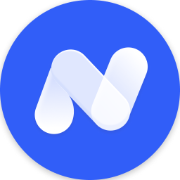
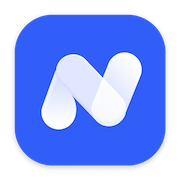
优化手机端展示效果,优化图标

diff --git a/app/components/chat.tsx b/app/components/chat.tsx
@@ -893,27 +893,27 @@ function _Chat() {
       .concat(
         isLoading
           ? [
-              {
-                ...createMessage({
-                  role: "assistant",
-                  content: "……",
-                }),
-                preview: true,
-              },
-            ]
+            {
+              ...createMessage({
+                role: "assistant",
+                content: "……",
+              }),
+              preview: true,
+            },
+          ]
           : [],
       )
       .concat(
         userInput.length > 0 && config.sendPreviewBubble
           ? [
-              {
-                ...createMessage({
-                  role: "user",
-                  content: userInput,
-                }),
-                preview: true,
-              },
-            ]
+            {
+              ...createMessage({
+                role: "user",
+                content: userInput,
+              }),
+              preview: true,
+            },
+          ]
           : [],
       );
   }, [
@@ -1009,7 +1009,7 @@ function _Chat() {
         if (payload.key || payload.url) {
           showConfirm(
             Locale.URLCommand.Settings +
-              `\n${JSON.stringify(payload, null, 4)}`,
+            `\n${JSON.stringify(payload, null, 4)}`,
           ).then((res) => {
             if (!res) return;
             if (payload.key) {
@@ -1050,7 +1050,7 @@ function _Chat() {
 
   return (
     <div className={styles.chat} key={session.id}>
-      <div className="window-header" data-tauri-drag-region>
+      <div className={`window-header ${isMobileScreen ? 'mobile-screen' : ''}`} data-tauri-drag-region>
         {isMobileScreen && (
           <div className="window-actions">
             <div className={"window-action-button"}>

diff --git a/app/styles/window.scss b/app/styles/window.scss
@@ -7,7 +7,9 @@
   justify-content: space-between;
   align-items: center;
 }
-
+.mobile-screen {
+  padding: 5px 20px;
+}
 .window-header-title {
   max-width: calc(100% - 100px);
   overflow: hidden;
